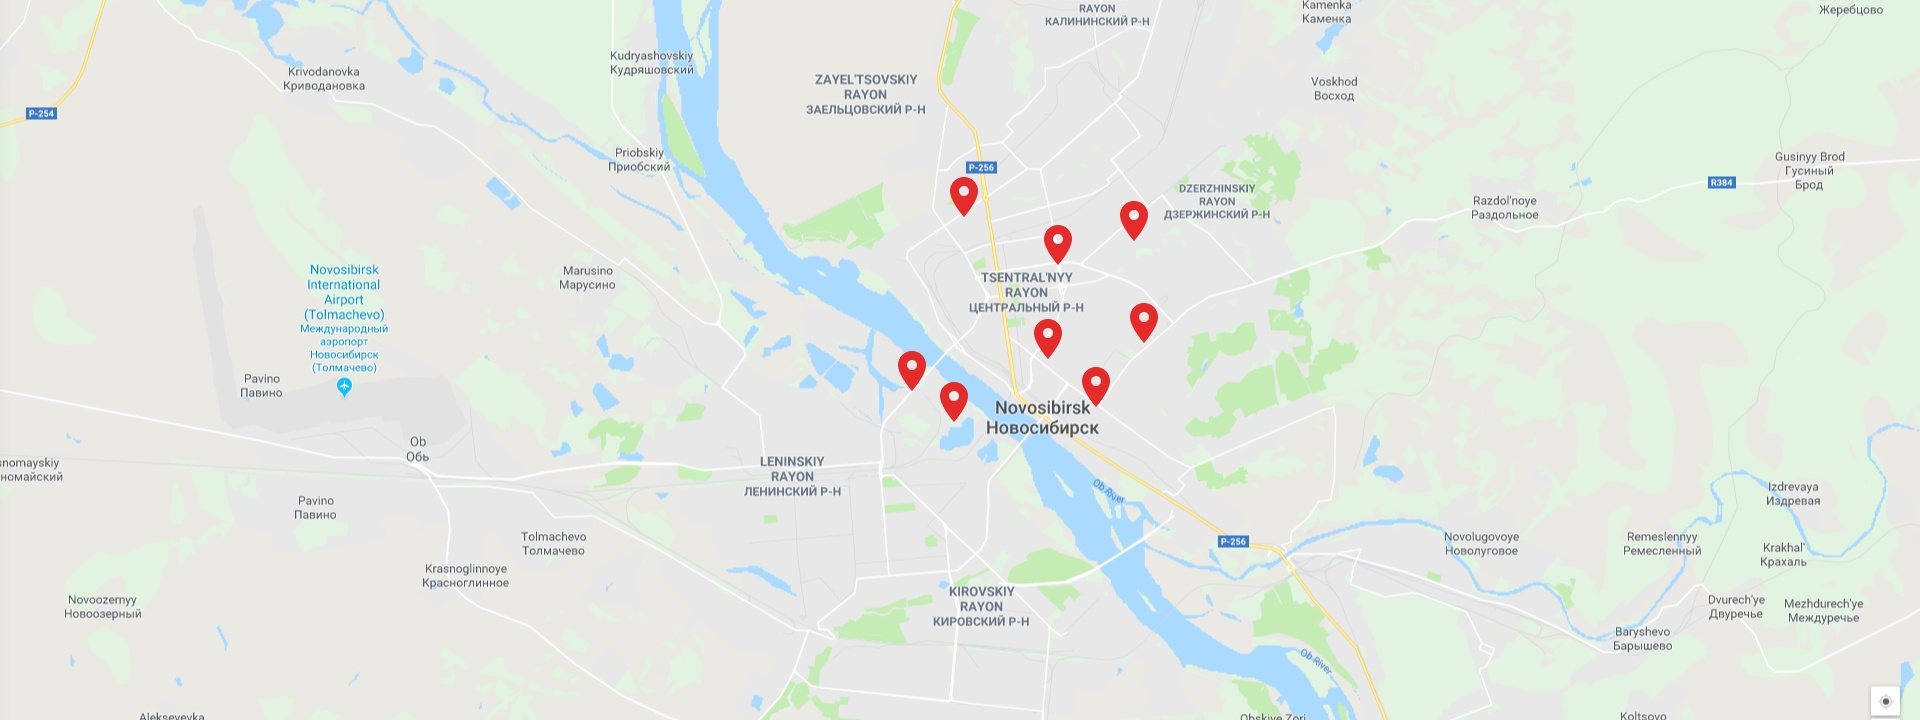
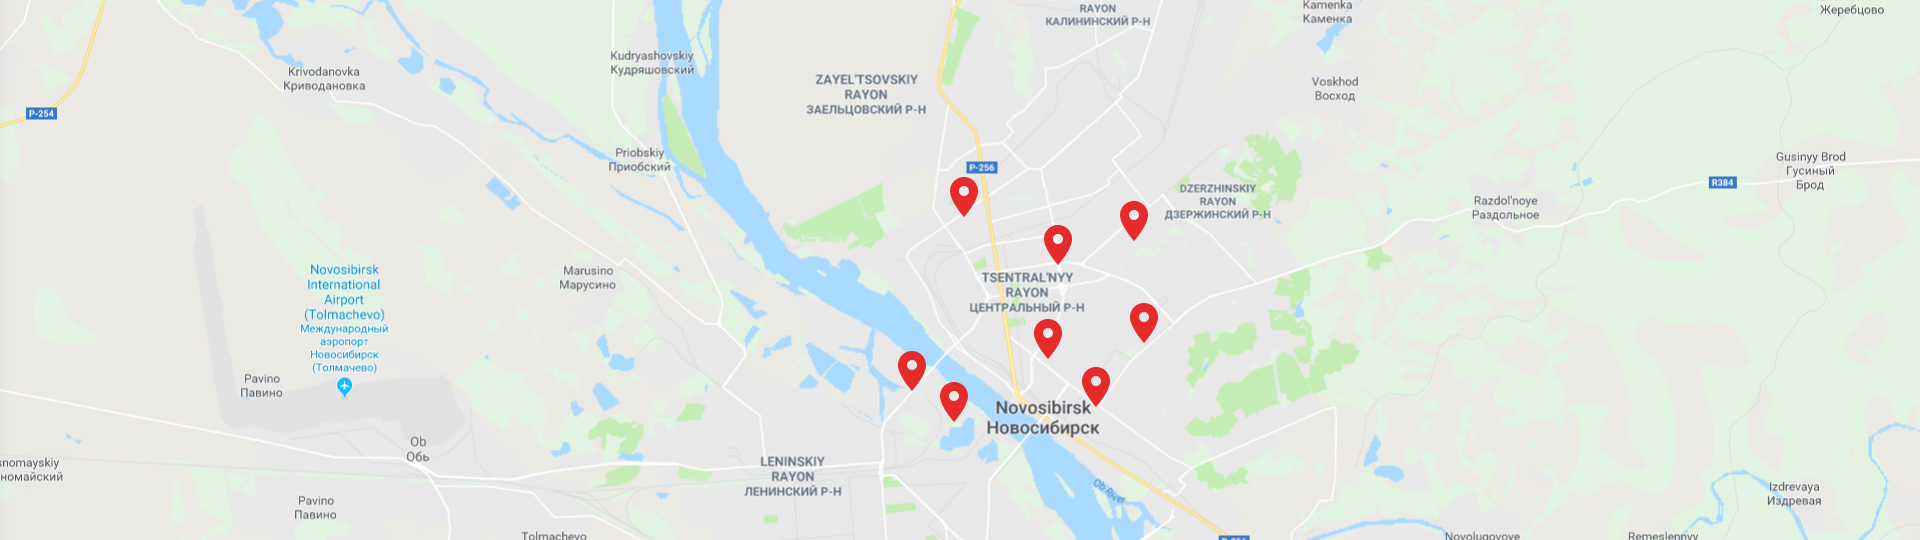
переделал тексты в хедере и блок с картой

diff --git a/app/index.html b/app/index.html
@@ -113,13 +113,12 @@
 				</div>
 			</div>
 			<div class="row">
-				<div class="col-lg-5 col-md-7 offset-md-1">
-					<h1 class="h1">Получите качественный ремонт квартиры с дизайном интерьера</h1>
+				<div class="col-lg-6 col-md-7 offset-md-1">
+					<h1 class="h1">Получите качественный ремонт квартиры от компании №1 по версии Flamp в Новосибирске
+					</h1>
 					<ul class="header_list">
 						<li class="header_list_item">Дизайн проект в подарок при заказе ремонта</li>
-						<li class="header_list_item">Консультация и смета через 2 часа в день обращения</li>
-						<li class="header_list_item">Экономия на материалах до 300 000 рублей</li>
-						<li class="header_list_item">Гарантия ДО 5 лет</li>
+						<li class="header_list_item">Дизайн и ремонт квартир от 2490 руб/м2</li>
 					</ul>
 					<a class="button button-red" href="#popup:marquiz_5ca1ec878a9273004485db88">Рассчитать стоимость</a>
 					<p class="p">Узнай стоимость и получи скиду 25 000 рублей на ремонт</p>
@@ -127,27 +126,27 @@
 			</div>
 		</div>
 	</header>
-	<section class="objects-map d-none d-md-block">
+	<section class="objects-map">
 		<div class="container-fluid">
 			<div class="row">
-				<div class="col-6 col-sm-4 offset-md-7">
-					<div class="section-header">
-						<h2 class="h2 text-center">Выполненные объекты</h2>
+				<div class="col-12 col-md-6 col-xl-4 offset-xl-1">
+					<div class="objects-block">
+						<p class="p"><b>За 5 лет жители Новосибирска
+								доверили нам более 350 квартир</b></p>
+						<p class="p">Гарантия на все работы до 10 лет </p>
 						<div class="decor-line"></div>
+						<p class="p">«Симметрия» компания №1 по количеству
+							произведенных ремонтов и дизайнов
+							интерьера в Новосибирске с 2014 года.
+							Более положительных 60 отзывов</p>
 					</div>
 				</div>
 			</div>
+			<iframe class=" d-none d-md-block" src="https://www.google.com/maps/d/embed?mid=1hQp9Pz8R52pkavKcrwhbiNqatm17kn5K&hl=ru" width="100%" height="587px"></iframe>
 		</div>
 	</section>
 	<section class="objects-logo">
 		<div class="container-fluid">
-			<div class="row">
-				<div class="col-12">
-					<div class="objects-logo-card">
-						<h2 class="h2">Для жителей новостроек скидки от 30 000 RUB</h2>
-					</div>
-				</div>
-			</div>
 			<div class="row justify-content-center">
 				<div class="col-12 col-md-8">
 					<div class="objects-logo-carousel owl-carousel owl-theme">
@@ -370,68 +369,65 @@
 	</section>
 	<section class="calc">
 		<div class="container-fluid">
-				<div class="calc-item">
-						<h2 class="h2 text-center">Экспресс расчёт стоимости ремонта</h2>
-						<p class="p"><b>Тип ремонта:</b></p>
-						<form action="" class="calc-form">
-							<!-- Hidden Required Fields -->
-							<input type="hidden" name="project_name" value="Simmetria-pro">
-							<input type="hidden" name="admin_email" value="zinovyevaleks@yandex.ru">
-							<input type="hidden" name="form_subject" value="Калькулятор">
-							<!-- END Hidden Required Fields -->
+			<div class="calc-item">
+				<h2 class="h2 text-center">Экспресс расчёт стоимости ремонта</h2>
+				<p class="p"><b>Тип ремонта:</b></p>
+				<form action="" class="calc-form">
+					<!-- Hidden Required Fields -->
+					<input type="hidden" name="project_name" value="Simmetria-pro">
+					<input type="hidden" name="admin_email" value="zinovyevaleks@yandex.ru">
+					<input type="hidden" name="form_subject" value="Калькулятор">
+					<!-- END Hidden Required Fields -->
 
 
-							<div class="form-group form-check d-sm-flex">
-								<label class="form-check-label d-flex align-items-center">
-									<input type="checkbox" class="form-check-input" name="РК + Дизайн проект" checked>
-									<span class="form-check-box"></span>
-									РК + Дизайн проект
+					<div class="form-group form-check d-sm-flex">
+						<label class="form-check-label d-flex align-items-center">
+							<input type="checkbox" class="form-check-input" name="РК + Дизайн проект" checked>
+							<span class="form-check-box"></span>
+							РК + Дизайн проект
 
-								</label>
-								<label class="form-check-label d-flex align-items-center">
-									<input type="checkbox" class="form-check-input" name="РК под ключ">
-									<span class="form-check-box"></span>
-									РК под ключ
-								</label>
-							</div>
-							<div class="form-group form-check d-sm-flex">
-								<label class="form-check-label d-flex align-items-center">
-									<input type="checkbox" class="form-check-input" name="Дизайн проект">
-									<span class="form-check-box"></span>
-									Дизайн проект
-								</label>
-								<label class="form-check-label d-flex align-items-center">
-									<input type="checkbox" class="form-check-input" name="Умный дом">
-									<span class="form-check-box"></span>
-									Умный дом
-								</label>
-							</div>
-							<div class="form-group form-group-inputs d-sm-flex">
-								<div class="d-flex flex-wrap">
-									<img class="form-input-icon img-responsive" src="./img/icons/Room_icon.svg" alt="">
-									<input class="form-input d-flex justify-content-center" type="number"
-										name="количество комнат" required>
-									<label class="form-input-label">Количество комнат</label>
-								</div>
-								<div class="d-flex flex-wrap">
-									<img class="form-input-icon img-responsive" src="./img/icons/m2_icon.svg" alt="">
-									<input class="form-input" type="number" name="Площадь квартиры" required>
-									<label class="form-input-label">Площадь квартиры</label>
-								</div>
-							</div>
-							<input class="form-input input-phone" type="text" name="Телефон"
-								placeholder="Ваш номер телефона"
-								pattern="[\+]\d{1}\s[\(]\d{3}[\)]\s\d{3}[\-]\d{2}[\-]\d{2}" required>
-							<button class="button button-red calc-button" type="submit">Получить расчёт</button>
-						</form>
+						</label>
+						<label class="form-check-label d-flex align-items-center">
+							<input type="checkbox" class="form-check-input" name="РК под ключ">
+							<span class="form-check-box"></span>
+							РК под ключ
+						</label>
 					</div>
-			<!-- <div class="row no-gutters">
-				<div class="col-md-8">
-					<img src="./img/desktop/calc_img.jpg" alt="" class="img-responsive">
-				</div>
-				<div class="col-xl-4">
-					
-				</div>
+					<div class="form-group form-check d-sm-flex">
+						<label class="form-check-label d-flex align-items-center">
+							<input type="checkbox" class="form-check-input" name="Дизайн проект">
+							<span class="form-check-box"></span>
+							Дизайн проект
+						</label>
+						<label class="form-check-label d-flex align-items-center">
+							<input type="checkbox" class="form-check-input" name="Умный дом">
+							<span class="form-check-box"></span>
+							Умный дом
+						</label>
+					</div>
+					<div class="form-group form-group-inputs d-sm-flex">
+						<div class="d-flex flex-wrap">
+							<img class="form-input-icon img-responsive" src="./img/icons/Room_icon.svg" alt="">
+							<input class="form-input d-flex justify-content-center" type="number"
+								name="количество комнат" required>
+							<label class="form-input-label">Количество комнат</label>
+						</div>
+						<div class="d-flex flex-wrap">
+							<img class="form-input-icon img-responsive" src="./img/icons/m2_icon.svg" alt="">
+							<input class="form-input" type="number" name="Площадь квартиры" required>
+							<label class="form-input-label">Площадь квартиры</label>
+						</div>
+					</div>
+					<input class="form-input input-phone" type="text" name="Телефон" placeholder="Ваш номер телефона"
+						pattern="[\+]\d{1}\s[\(]\d{3}[\)]\s\d{3}[\-]\d{2}[\-]\d{2}" required>
+					<button class="button button-red calc-button" type="submit" id="calcButton" Получить расчёт</button>
+						</form> </div> <!-- <div class="row no-gutters">
+						<div class="col-md-8">
+							<img src="./img/desktop/calc_img.jpg" alt="" class="img-responsive">
+						</div>
+						<div class="col-xl-4">
+
+						</div>
 			</div> -->
 		</div>
 	</section>

diff --git a/app/scss/_objects-map.scss b/app/scss/_objects-map.scss
@@ -1,9 +1,55 @@
 .objects-map {
-    background-image: url('../img/desktop/Map_block-bg.jpg');
+    position: relative;
+    z-index: 1;
+    // background-image: url('../img/desktop/Map_block-bg.jpg');
     background-repeat: no-repeat;
     background-size: cover;
-    // padding-top: 216px;
-    padding-bottom: 514px;
+    // padding-bottom: 199px;
+    height: 587px;
+    margin-top: -47px;
 
+    .container-fluid {
+        padding-left: 0;
+        padding-right: 0;
+
+        .row {
+            margin: 0 0 0 -15px;
+        }
+    }
+
+    .objects-block {
+        background-color: $accent;
+        padding: 38px 0;
+        position: absolute;
+        top: 47px;
+    }
+    .p {
+        max-width: 87.04918032786885%;
+        text-align: center;
+        font-size: 21px; 
+        margin-left: auto;
+        margin-right: auto;
+
+        &:nth-child(2) {
+            text-transform: uppercase;
+            color: $red;
+        }
+
+        &:nth-child(1) {
+           
+            margin: 0 auto 24px;
+        }
+    }
+    .decor-line {
+		height: 6px;
+		background-color: $red;
+		width: 76.40983606557377%;
+		margin-left: auto;
+		margin-right: auto;
+		margin-bottom: 26px;
+    }
     
+    iframe {
+        border: none;
+    }
 }

diff --git a/app/scss/_header.scss b/app/scss/_header.scss
@@ -4,6 +4,8 @@
     background-position-y: right;
     background-size: cover;
     color: #F7F7F7;
+    position: relative;
+    z-index: 3;
     text-shadow: 2px 2px 4px rgba(0, 0, 0, 0.16);
     @import "./navbar";
 
@@ -13,7 +15,7 @@
 
     &_list {
         padding-left: 20px;
-        margin-bottom: 90px;
+        margin-bottom: 148px;
         list-style-image: url('../img/icons/list-marker.svg');
         list-style-position: outside;
     }

diff --git a/app/js/common.js b/app/js/common.js
@@ -140,7 +140,6 @@ $(function () {
 			alert("Спасибо, ваша заявка принята!");
 			setTimeout(function () {
 				// Done Functions
-
 				th.trigger("reset");
 			}, 1000);
 		});
